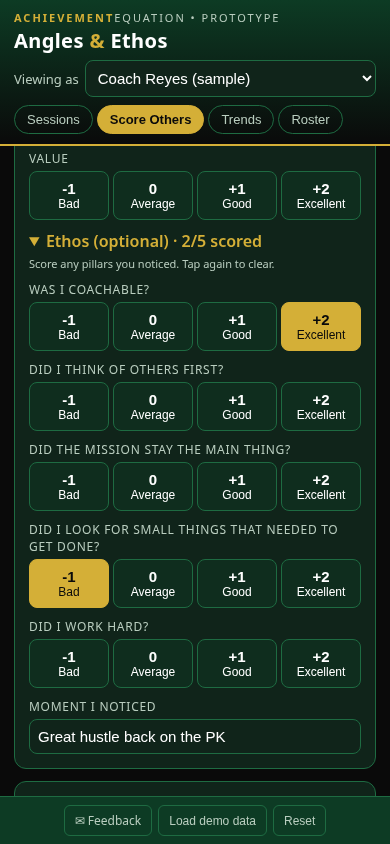
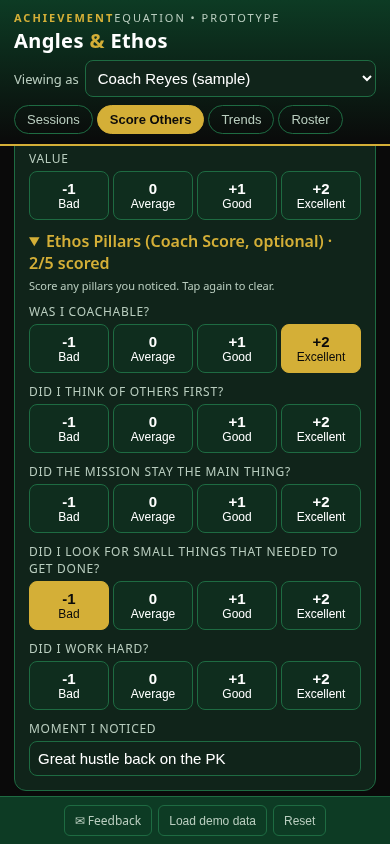
Coach Trends: per-player Ethos & Teammates Self vs Coach table; clearer Coach Score labels on Score Others

diff --git a/index.html b/index.html
@@ -43,6 +43,10 @@ let S=load(); let tab=null; let draft={};
 function blank(){return{team:'My Team',users:[{id:'coach1',name:'Coach',role:'coach'}],ethos:['Was I coachable?','Did I think of others first?','Did the mission stay the main thing?','Did I look for small things that needed to get done?','Did I work hard?'],angles:{tools:'Tools',technology:'Technology'},sessions:[],entries:[],others:[],me:'coach1'}}
 function migrate(d){const b=blank();if(!d||typeof d!=='object')return b;d.angles={tools:'Tools',technology:'Technology'};for(const k in b)if(d[k]==null)d[k]=b[k];if(!Array.isArray(d.ethos)||d.ethos.some(x=>/placeholder/i.test(x)))d.ethos=b.ethos;while(d.ethos.length<5)d.ethos.push(b.ethos[d.ethos.length]);
  ['users','sessions','entries','others'].forEach(k=>{if(!Array.isArray(d[k]))d[k]=[]});d.entries.forEach(e=>{if(!Array.isArray(e.ethos))e.ethos=[];if(!Array.isArray(e.ethosNotes))e.ethosNotes=[];if(!Array.isArray(e.techScores))e.techScores=[];e.factors=e.factors||{};if(!Array.isArray(e.toolScores)){e.toolScores=[];e.techGear=[];if(e.tools||e.tech)e.gearNote=[e.tools&&('Tools: '+e.tools),e.tech&&('Technology: '+e.tech)].filter(Boolean).join(' · ');if(e.tech==='N/A')e.techNA=true}if(!Array.isArray(e.techGear))e.techGear=[]});d.sessions.forEach(x=>{if(!Array.isArray(x.techniques))x.techniques=[];if(!Array.isArray(x.tools))x.tools=[];if(!Array.isArray(x.tech))x.tech=[]});d.users.forEach(u=>{if(u.role!=='coach'&&!POS[u.pos])u.pos='F'});d.sessions.forEach(x=>{if(!x.groups||typeof x.groups!=='object')x.groups={};for(const g in x.groups){const c=x.groups[g];if(!POS[g]||!c||typeof c!=='object'){delete x.groups[g];continue}['techniques','tools','tech'].forEach(k=>{if(!Array.isArray(c[k]))c[k]=[]});if(!c.techniques.length)delete x.groups[g]}});d.sessions.forEach(x=>{const n=x.coachNotes;if(!n||typeof n!=='object'||Array.isArray(n)){x.coachNotes=typeof n==='string'&&n.trim()?{change:n,learned:'',surprised:'',at:null}:null}else['change','learned','surprised'].forEach(k=>{if(typeof n[k]!=='string')n[k]=''})});d.entries.forEach(e=>{const f=e.factors;if(f.life===undefined&&f.rec===undefined&&f.nutrition===undefined){const ok=v=>typeof v==='number'&&v>=1&&v<=5;const nf={sleepH:f.sleepH??null,sleep:ok(f.sleepQ)?f.sleepQ:null,nutrition:ok(f.nutr)?f.nutr:null,life:ok(f.stress)?6-f.stress:null,notes:f.notes||''};const rr=[ok(f.sore)?6-f.sore:null,ok(f.hyd)?f.hyd:null].filter(v=>v!=null);nf.rec=rr.length?Math.round(rr.reduce((a,b)=>a+b,0)/rr.length*10)/10:null;e.factors=nf}});d.others.forEach(o=>{if(!Array.isArray(o.ethos))o.ethos=[];o.ethos=o.ethos.slice(0,5).map(v=>typeof v==='number'&&v>=-1&&v<=2?v:null);if(typeof o.note!=='string')o.note=''});d.v=7;return d}
+const SCL=()=>(S.users.find(u=>u.id===S.me)||{}).role==='captain'?'Captain Score':'Coach Score';
+const ESH=['Coachable','Others first','Mission','Small things','Work hard'];
+function playerCmp(aid){const L=sorted().filter(x=>S.entries.some(e=>e.sessionId===x.id&&e.athleteId===aid)||S.others.some(o=>o.sessionId===x.id&&o.athleteId===aid)).slice(-5),ids=new Set(L.map(x=>x.id));const EN=S.entries.filter(e=>ids.has(e.sessionId)&&e.athleteId===aid),OT=S.others.filter(o=>ids.has(o.sessionId)&&o.athleteId===aid);return [{n:'Tm Perf',me:avg(EN.map(e=>e.selfPerf)),co:avg(OT.map(o=>o.perf))},{n:'Tm Value',me:avg(EN.map(e=>e.selfVal)),co:avg(OT.map(o=>o.val))},...S.ethos.map((_,i)=>({n:ESH[i]||('Pillar '+(i+1)),me:avg(EN.map(e=>(e.ethos||[])[i])),co:avg(OT.map(o=>(o.ethos||[])[i]))}))]}
+function playerEthosCard(as,lab){if(!as.length)return '';const cols=playerCmp(as[0].id).map(c=>c.n);const cell=(c,big)=>{let g=c.me!=null&&c.co!=null?c.me-c.co:null;if(g!=null&&Math.abs(g)<0.05)g=0;const col=g==null?'inherit':Math.abs(g)<0.5?'#2fae66':'#d4af37';return `<td style="text-align:center;padding:4px 5px;white-space:nowrap;border-left:1px solid #1e6b42;${big?'background:rgba(255,127,107,.18);outline:1px solid #ff7f6b;':''}"><span>${fmt(c.me)}</span><span class="muted"> / </span><span>${c.co==null?'–':fmt(c.co)}</span><br><b style="color:${col};font-size:11px">${g==null?'–':(g>0?'+':'')+g.toFixed(1)}</b>${big?'<div style="font-size:9px;color:#ff7f6b">▲ overrates</div>':''}</td>`};const rows=as.map(a=>{const cs=playerCmp(a.id);let bi=-1,bg=0.5;cs.forEach((c,i)=>{if(c.me!=null&&c.co!=null&&c.me-c.co>=bg){bg=c.me-c.co;bi=i}});return `<tr data-drill="${a.id}" style="cursor:pointer;border-top:1px solid #1e6b42"><td style="position:sticky;left:0;background:var(--navy2);padding:4px 6px;white-space:nowrap;font-weight:600">${esc(a.name)} <span class="tag">${POS[posOf(a)]}</span> ›</td>${cs.map((c,i)=>cell(c,i===bi)).join('')}</tr>`}).join('');return `<div class="card pecard"><h2>${lab}: Player Ethos &amp; Teammates — Self vs Coach</h2><p class="muted" style="margin-top:0">Last 5 sessions per player. Each cell: Self / Coach, Gap below (green = small, gold = big). <span style="color:#ff7f6b">Coral</span> = player's biggest overrating (Self ≥0.5 above Coach). '–' = not scored. Tap a player for their trends.</p><div style="overflow-x:auto;-webkit-overflow-scrolling:touch"><table style="border-collapse:collapse;font-size:12px;min-width:640px"><tr class="muted"><td style="position:sticky;left:0;background:var(--navy2);padding:4px 6px">Player</td>${cols.map(c=>`<td style="text-align:center;padding:4px 5px;white-space:nowrap">${c}</td>`).join('')}</tr>${rows}</table></div><div class="muted" style="font-size:11px;margin-top:6px;line-height:1.4">Tm Perf / Tm Value = Teammates Performance / Value. ${S.ethos.map((n,i)=>`<b>${ESH[i]||'Pillar '+(i+1)}</b>: ${esc(n)}`).join(' · ')}</div></div>`}
 function ethosCmp(aids){const A=new Set(aids);const L=sorted().filter(x=>S.entries.some(e=>e.sessionId===x.id&&A.has(e.athleteId))||S.others.some(o=>o.sessionId===x.id&&A.has(o.athleteId))).slice(-5),ids=new Set(L.map(x=>x.id));const EN=S.entries.filter(e=>ids.has(e.sessionId)&&A.has(e.athleteId)),OT=S.others.filter(o=>ids.has(o.sessionId)&&A.has(o.athleteId));return S.ethos.map((n,i)=>({n,me:avg(EN.map(e=>(e.ethos||[])[i])),co:avg(OT.map(o=>(o.ethos||[])[i])),c:OT.filter(o=>(o.ethos||[])[i]!=null).length}))}
 function ethosTable(rows,meLab){const gap=(a,c)=>{const g=(a!=null&&c!=null)?a-c:null;return `<td style="text-align:center;color:${g==null?'inherit':Math.abs(g)<0.5?'#2fae66':'#d4af37'}">${g==null?'–':(g>0?'+':'')+g.toFixed(1)}</td>`};return `<table class="ethcmp" style="width:100%;border-collapse:collapse;font-size:13px;margin-top:6px"><tr class="muted"><td>Ethos Pillar</td><td style="text-align:center">${meLab}</td><td style="text-align:center">Coaches</td><td style="text-align:center">Gap</td></tr>${rows.map(r=>`<tr><td style="padding:3px 0">${esc(r.n)}</td><td style="text-align:center">${fmt(r.me)}</td><td style="text-align:center">${r.co==null?'–':fmt(r.co)}</td>${r.co==null?'<td style="text-align:center">–</td>':gap(r.me,r.co)}</tr>`).join('')}</table>`}
 const FAC=[{k:'sleep',n:'Sleep',c:'#d4af37'},{k:'nutrition',n:'Nutrition',c:'#ffffff'},{k:'life',n:'Life away from the ice',c:'#5ec8f2'},{k:'rec',n:'Recovery',c:'#ff7f6b'}];
@@ -131,10 +135,10 @@ others(){const ss=sorted().reverse();if(!ss.length)return '<div class="card"><p 
  if(!draft.osid||!sess(draft.osid))draft.osid=ss[0].id;const x=sess(draft.osid),comp=x.type==='competition';
  return `<div class="card"><h2>Score Others</h2><p class="muted">Rate each teammate on Performance and Value. Ethos Pillars are optional.</p><select id="pickO">${ss.map(s=>`<option value="${s.id}" ${s.id===x.id?'selected':''}>${s.date} · ${esc(s.tactic)}</option>`).join('')}</select></div>`+
  athletes().filter(a=>a.id!==S.me).map(a=>{const o=S.others.find(o=>o.sessionId===x.id&&o.athleteId===a.id&&o.raterId===S.me)||{};
- return `<div class="card"><h3 style="margin-top:0">${esc(a.name)} ${a.number?'#'+a.number:''} ${a.role==='captain'?'<span class="tag comp">C</span>':''}</h3><label>Performance</label>${scaleHTML('op|'+a.id,o.perf,comp)}<label>Value</label>${scaleHTML('ov|'+a.id,o.val,comp)}${(()=>{const oe=o.ethos||[],cnt=oe.filter(v=>v!=null).length;return `<details class="oeth" data-aid="${a.id}" ${draft.oOpen&&draft.oOpen[a.id]?'open':''} style="margin-top:10px"><summary style="cursor:pointer;color:var(--gold);font-weight:600">Ethos (optional)${cnt?` · ${cnt}/5 scored`:''}${o.note?' · note':''}</summary><p class="muted" style="font-size:11px;margin:4px 0">Score any pillars you noticed. Tap again to clear.</p>${S.ethos.map((n,i)=>`<label>${esc(n)}</label>${scaleHTML('oe'+i+'|'+a.id,oe[i],false)}`).join('')}<label>Moment I noticed</label><input id="on_${a.id}" class="onote" data-aid="${a.id}" maxlength="200" placeholder="Optional: a low moment or a great one" value="${esc(o.note||'')}"></details>`})()}</div>`}).join('')},
+ return `<div class="card"><h3 style="margin-top:0">${esc(a.name)} ${a.number?'#'+a.number:''} ${a.role==='captain'?'<span class="tag comp">C</span>':''}</h3><div class="osec" style="color:var(--gold);font-weight:700;font-size:13px;letter-spacing:.04em;margin-top:6px">Angles · Teammates (${SCL()})</div><label>Performance</label>${scaleHTML('op|'+a.id,o.perf,comp)}<label>Value</label>${scaleHTML('ov|'+a.id,o.val,comp)}${(()=>{const oe=o.ethos||[],cnt=oe.filter(v=>v!=null).length;return `<details class="oeth" data-aid="${a.id}" ${draft.oOpen&&draft.oOpen[a.id]?'open':''} style="margin-top:10px"><summary style="cursor:pointer;color:var(--gold);font-weight:600">Ethos Pillars (${SCL()}, optional)${cnt?` · ${cnt}/5 scored`:''}${o.note?' · note':''}</summary><p class="muted" style="font-size:11px;margin:4px 0">Score any pillars you noticed. Tap again to clear.</p>${S.ethos.map((n,i)=>`<label>${esc(n)}</label>${scaleHTML('oe'+i+'|'+a.id,oe[i],false)}`).join('')}<label>Moment I noticed</label><input id="on_${a.id}" class="onote" data-aid="${a.id}" maxlength="200" placeholder="Optional: a low moment or a great one" value="${esc(o.note||'')}"></details>`})()}</div>`}).join('')},
 trends(){return trendView(S.me)},
 team(){const tp=draft.tPos||'all';const as=athletes().filter(a=>tp==='all'||posOf(a)===tp);let pick=draft.tAth||'__team';if(pick!=='__team'&&!as.find(a=>a.id===pick))pick='__team';
- return `<div class="card"><h2>Team Rollup</h2><label style="margin-top:0">Position group</label><select id="tPos">${[['all','All players'],...Object.keys(POS).map(g=>[g,POSP[g]])].map(([v,l])=>`<option value="${v}" ${tp===v?'selected':''}>${l}</option>`).join('')}</select><label>Athlete</label><select id="tAth"><option value="__team">${tp==='all'?'Whole team':'All '+POSP[tp]}</option>${as.map(a=>`<option value="${a.id}" ${pick===a.id?'selected':''}>${esc(a.name)}</option>`).join('')}</select></div>`+(pick==='__team'?teamView(as,tp):trendView(pick))+cnHistory()},
+ return `<div class="card"><h2>Team Rollup</h2><label style="margin-top:0">Position group</label><select id="tPos">${[['all','All players'],...Object.keys(POS).map(g=>[g,POSP[g]])].map(([v,l])=>`<option value="${v}" ${tp===v?'selected':''}>${l}</option>`).join('')}</select><label>Athlete</label><select id="tAth"><option value="__team">${tp==='all'?'Whole team':'All '+POSP[tp]}</option>${as.map(a=>`<option value="${a.id}" ${pick===a.id?'selected':''}>${esc(a.name)}</option>`).join('')}</select></div>`+(pick==='__team'?playerEthosCard(as,tp==='all'?'Team':POSP[tp])+teamView(as,tp):trendView(pick))+cnHistory()},
 roster(){return `<div class="card"><h2>Team</h2><input id="teamName" value="${esc(S.team)}"></div><div class="card"><h2>Roster &amp; Access</h2><div class="list">${S.users.map(u=>`<div class="it"><span>${esc(u.name)} ${u.number?'#'+u.number:''}${u.role!=='coach'?` <span class="tag">${POS[posOf(u)]}</span>`:''}</span><span class="row" style="flex:0 0 auto">${u.role!=='coach'?`<select data-pos="${u.id}" style="width:auto">${Object.keys(POS).map(g=>`<option value="${g}" ${posOf(u)===g?'selected':''}>${POS[g]}</option>`).join('')}</select>`:''}<select data-role="${u.id}" style="width:auto">${['athlete','captain','coach'].map(r=>`<option ${u.role===r?'selected':''}>${r}</option>`).join('')}</select>${u.id!==S.me?`<button class="btn sec sm" data-del="${u.id}">✕</button>`:''}</span></div>`).join('')}</div>
 <div class="row" style="margin-top:10px"><input id="nName" placeholder="Name"><input id="nNum" placeholder="#" style="max-width:60px"><button class="btn sm" id="addU" style="flex:0 0 auto">Add</button></div></div>
 `},
@@ -180,7 +184,7 @@ const b=ev.target.closest('button');if(!b)return;
  if(b.dataset.tab){tab=b.dataset.tab;draft={};render();return}
  if(b.dataset.na!=null){grab();if(b.dataset.na==='all')draft.techNA=draft.techNA===false;else{const i=+b.dataset.na;draft.techGear=draft.techGear||[];draft.techGear[i]=draft.techGear[i]==='NA'?null:'NA'}render();return}
  if(b.dataset.k){const k=b.dataset.k,v=+b.dataset.v;
-  if(tab==='others'){const[t,aid]=k.split('|');let o=S.others.find(o=>o.sessionId===draft.osid&&o.athleteId===aid&&o.raterId===S.me);if(!o){o={sessionId:draft.osid,athleteId:aid,raterId:S.me};S.others.push(o)}if(t.slice(0,2)==='oe'){const i=+t.slice(2);o.ethos=o.ethos||[];const nv=o.ethos[i]===v?null:v;o.ethos[i]=nv;save();b.parentNode.querySelectorAll('button').forEach(x=>x.classList.toggle('on',nv!=null&&x===b));const dd=b.closest('details'),sm=dd&&dd.querySelector('summary');if(sm){const c=o.ethos.filter(x=>x!=null).length;sm.textContent='Ethos (optional)'+(c?' · '+c+'/5 scored':'')+(o.note?' · note':'')}toast(nv==null?'Cleared':'Saved');return}o[t==='op'?'perf':'val']=v;save();b.parentNode.querySelectorAll('button').forEach(x=>x.classList.toggle('on',x===b));toast('Saved');return}
+  if(tab==='others'){const[t,aid]=k.split('|');let o=S.others.find(o=>o.sessionId===draft.osid&&o.athleteId===aid&&o.raterId===S.me);if(!o){o={sessionId:draft.osid,athleteId:aid,raterId:S.me};S.others.push(o)}if(t.slice(0,2)==='oe'){const i=+t.slice(2);o.ethos=o.ethos||[];const nv=o.ethos[i]===v?null:v;o.ethos[i]=nv;save();b.parentNode.querySelectorAll('button').forEach(x=>x.classList.toggle('on',nv!=null&&x===b));const dd=b.closest('details'),sm=dd&&dd.querySelector('summary');if(sm){const c=o.ethos.filter(x=>x!=null).length;sm.textContent='Ethos Pillars ('+SCL()+', optional)'+(c?' · '+c+'/5 scored':'')+(o.note?' · note':'')}toast(nv==null?'Cleared':'Saved');return}o[t==='op'?'perf':'val']=v;save();b.parentNode.querySelectorAll('button').forEach(x=>x.classList.toggle('on',x===b));toast('Saved');return}
   grab();if(k[0]==='t')draft.techScores[+k.slice(1)]=v;else if(k[0]==='g'){draft.toolScores=draft.toolScores||[];draft.toolScores[+k.slice(1)]=v}else if(k[0]==='h'){draft.techGear=draft.techGear||[];draft.techGear[+k.slice(1)]=v}else if(k==='x'){draft.extra=draft.extra||{};draft.extra.score=v}else if(k==='sp')draft.selfPerf=v;else if(k==='sv')draft.selfVal=v;else if(k[0]==='e'){draft.ethos=draft.ethos||[];draft.ethos[+k.slice(1)]=v}
   b.parentNode.querySelectorAll('button').forEach(x=>x.classList.toggle('on',x===b));const t=document.getElementById('tacScore');if(t)t.textContent=fmt(avg(draft.techScores));const g=id=>document.getElementById(id);if(g('sumP')){g('sumP').textContent=fmt(playerScore(draft));g('sumM').textContent=fmt(memberScore(draft));g('sumT').textContent=fmt(totalScore(draft));g('sumG').textContent=fmt(gearScore(draft))}return}
  if(b.id==='addSess'){const t=document.getElementById('sTac').value.trim(),te=document.getElementById('sTech').value.split('\n').map(s=>s.trim()).filter(Boolean);if(!t||!te.length)return toast('Add a Tactic and Techniques');
@@ -197,6 +201,7 @@ const b=ev.target.closest('button');if(!b)return;
 });
 function grab(){const g=id=>document.getElementById(id);if(!g('focus'))return;draft.focus=g('focus').value;draft.gearNote=g('gNote').value;const xn=g('xName').value.trim();draft.extra=Object.assign(draft.extra||{},{name:xn,kind:g('xKind').value});
  const n=id=>g(id).value===''?null:+g(id).value;const c5=id=>{const v=n(id);return v==null?null:Math.min(5,Math.max(1,v))};draft.factors={sleepH:n('f_sleepH'),sleep:c5('f_sleep'),nutrition:c5('f_nutrition'),life:c5('f_life'),rec:c5('f_rec'),notes:g('f_notes').value};draft.techScores=draft.techScores||[];draft.ethosNotes=S.ethos.map((_,i)=>g('en'+i)?g('en'+i).value:'')}
+document.addEventListener('click',ev=>{const tr=ev.target.closest&&ev.target.closest('tr[data-drill]');if(tr){draft.tAth=tr.dataset.drill;render();window.scrollTo(0,0)}});
 document.addEventListener('toggle',ev=>{const d=ev.target;if(d.classList&&d.classList.contains('oeth')){draft.oOpen=draft.oOpen||{};draft.oOpen[d.dataset.aid]=d.open}},true);
 document.addEventListener('change',ev=>{const t=ev.target;
  if(t.classList&&t.classList.contains('onote')){const aid=t.dataset.aid;let o=S.others.find(o=>o.sessionId===draft.osid&&o.athleteId===aid&&o.raterId===S.me);if(!o){o={sessionId:draft.osid,athleteId:aid,raterId:S.me,ethos:[],note:''};S.others.push(o)}o.note=t.value.trim().slice(0,200);save();toast('Note saved');return}
